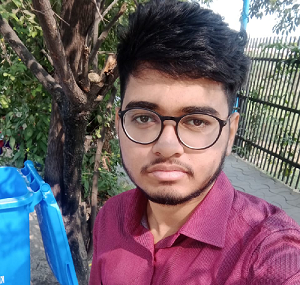
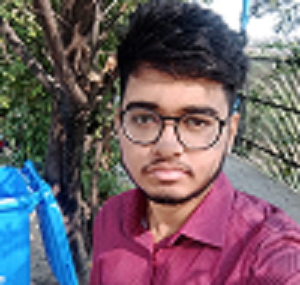
Made some changes

diff --git a/index.html b/index.html
@@ -112,7 +112,7 @@
             <section class="about section" id="about">
                 <h2 class="section__title">About me</h2>
                 <div class="about__container container grid">
-                    <img src="assets/img/Aritra 2.png" alt="" class="about__img">
+                    <img src="assets/img/Saly-13.png" alt="" class="about__img">
 
                     <div class="about__data">
                         <p class="about__description">I'm a 3rd Year student currently pursuing B.Tech in Computer Science and Engineering from JIS College of Engineering.
@@ -326,7 +326,7 @@
 
                         </div>
 
-                        <!----- Others ------>
+                        <!-- --- Others ----
                         <div class="skills__content skills__close">
                             <div class="skills__header">
                                 <i class="uil uil-swatchbook skills__icon"></i>
@@ -371,7 +371,7 @@
                                     </div>    
                             </div>
 
-                        </div>
+                        </div> -->
                     </div>
                 </div>
             </section>
@@ -467,98 +467,7 @@
                 </div>
             </section>
 
-            <!-- Portfolio -->
-            <section class="portfolio section" id="projects">
-                <h2 class="section__title">Projects</h2>
-        
-                <div class="portfolio__container container swiper-container">
-                    <div class="swiper-wrapper">
-        
-                        <!-- Project 4 -->
-                        <div class="portfolio__content grid swiper-slide">
-                        <img src="./assets/img/Data-Structure-Algorithm.png" alt="" class="portfolio__img">
             
-                        <div class="portfolio__data">
-                            <h3 class="portfolio__title">Data Structure & Algorithm </h3>
-                            <p class="portfolio__description">
-                                An Open-Source repository 🌎 that contains all the DSA concepts and their implementation, questions and Interview questions..
-                            </p>
-                            <a href="https://github.com/aritra-tech/Data-Structure-Algorithm" class="button button-flex button-small portfolio__button">
-                            Check out
-                            <i class="uil uil-arrow-right button__icon"></i>
-                            </a>
-                        </div>
-                        </div>
-            
-                        <!-- Project 3 -->
-                        <div class="portfolio__content grid swiper-slide">
-                        <img
-                            src="assets/img/bnner_keepit.png" alt="" class="portfolio__img">
-            
-                        <div class="portfolio__data">
-                            <h3 class="portfolio__title">
-                            KeepIt
-                            </h3>
-                            <p class="portfolio__description">
-                                KeepIt is a note taking Android application 📱 built using Kotlin and also to demonstrate use of Modern Android development tools..
-                            </p>
-                            <a href="https://github.com/aritra-tech/KeepIt" class="button button-flex button-small portfolio__button">
-                            Check out
-                            <i class="uil uil-arrow-right button__icon"></i>
-                            </a>
-                        </div>
-                        </div>
-            
-                        <!-- Project 2 -->
-                        <div class="portfolio__content grid swiper-slide">
-                        <img
-                            src="assets/img/banner.png" alt="" class="portfolio__img">
-            
-                        <div class="portfolio__data">
-                            <h3 class="portfolio__title">
-                            Medify
-                            </h3>
-                            <p class="portfolio__description">
-                                Medify is a medical android app which deals and solves issues of both patients and doctors.
-                            </p>
-                            <a href="https://github.com/aritra-tech/Medify" class="button button-flex button-small portfolio__button">
-                            Check out
-                            <i class="uil uil-arrow-right button__icon"></i>
-                            </a>
-                        </div>
-                        </div>
-            
-                        <!-- Project 1 -->
-                        <div class="portfolio__content grid swiper-slide">
-                        <img
-                            src="assets/img/Care4U.png" alt="" class="portfolio__img">
-            
-                        <div class="portfolio__data">
-                            <h3 class="portfolio__title">
-                            CaringYou
-                            </h3>
-                            <p class="portfolio__description">
-                                CaringYou is a firebase based app. It makes sure to fulfill most of daily needs of an user. It is an amalgamation of features that an user needs and wish to have in this current COVID situation.
-                            </p>
-                            <a href="https://github.com/aritra-tech/Care4U" class="button button-flex button-small portfolio__button">
-                            Check out
-                            <i class="uil uil-arrow-right button__icon"></i>
-                            </a>
-                        </div>
-                        </div>
-                    </div>
-        
-                <!-- Arrows -->
-                <div class="swiper-button-next">
-                    <i class="uil uil-angle-right-b swiper-portfolio-icon"></i>
-                </div>
-                <div class="swiper-button-prev">
-                    <i class="uil uil-angle-left-b swiper-portfolio-icon"></i>
-                </div>
-                <!-- Pagination -->
-                <div class="swiper-pagination"></div>
-                </div>
-            </section>
 
             <!-- Footer -->
             <footer class="footer">

diff --git a/assets/css/styles.css b/assets/css/styles.css
@@ -256,7 +256,7 @@ img{
 
 /*==== About ====*/
 .about__img{
-    width: 200px;
+    width: 100px;
     
     border-radius: .5rem;
     justify-self: center;
@@ -508,29 +508,29 @@ img{
     outline: none;
 }
 /* FOOTER  */
-.footer {
+.footer{
     padding-top: 2rem;
 }
   
-  .footer_container {
+.footer_container{
     row-gap: 3.5rem;
 }
   
-.footer_bg {
+.footer_bg{
     background-color: var(--first-color-second);
     padding: 2rem 0 3rem;
 }
   
-.footer_title {
+.footer_title{
     font-size: var(--h1-font-size);
     margin-bottom: var(--mb-0-25);
 }
   
-.footer_subtitle {
+.footer_subtitle{
     font-size: var(--small-font-size);
 }
   
-.footer_links {
+.footer_links{
     display: flex;
     flex-direction: column;
     row-gap: 1.5rem;
@@ -547,16 +547,16 @@ img{
     color: var(--first-color-lighter);
 }
   
-.footer_social {
+.footer_social{
     font-size: 1.25rem;
     margin-right: var(--mb-1-5);
 }
   
-.footer_social:hover {
+.footer_social:hover{
     color: var(--first-color-lighter);
 }
   
-.footer_copy {
+.footer_copy{
     font-size: var(--smaller-font-size);
     text-align: center;
     color: var(--text-color-light);
@@ -576,23 +576,23 @@ img{
       margin-right: var(--mb-1);
     }
   
-    .nav__menu {
+    .nav__menu{
       padding: 2rem 0.25rem 4rem;
     }
   
-    .nav__list {
+    .nav__list{
       column-gap: 0;
     }
   
-    .home__content {
+    .home__content{
       grid-template-columns: 0.25fr 3fr;
     }
   
-    .home__blob {
+    .home__blob{
       width: 180px;
     }
   
-    .skills__title {
+    .skills__title{
       font-size: var(--normal-font-size);
     }
   
@@ -618,6 +618,7 @@ img{
   
     .about__container,
     .skills__container,
+    .portfolio__content
     .footer__container{
       grid-template-columns: repeat(2, 1fr);
     }
@@ -698,6 +699,12 @@ img{
     .qualification_sections{
         grid-template-columns: .5fr;
     }
+    .portfolio__img{
+        width: 320px;
+    }
+    .portfolio__content{
+        align-items: center;
+    }
     .footer__container{
         grid-template-columns: repeat(3,1fr);
     }
@@ -721,5 +728,20 @@ img{
     }
     .home__social{
         transform: translateX(-6rem);
+    }
+    .portfolio__content{
+        column-gap: 5rem;
+    }
+    .swiper-portfolio-icon{
+        font-size: 3.5rem;
+    }
+    .swiper-button-prev{
+        left: -3.5rem;
+    }
+    .swiper-button-next{
+        right: -3.5rem;
+    }
+    .swiper-container-horizontal > .swiper-pagination-bullets{
+        bottom: -4.5rem;
     }
 }

diff --git a/assets/js/main.js b/assets/js/main.js
@@ -83,11 +83,13 @@ let swiper = new Swiper('.portfolio__container', {
     cssMode: true,
     loop: true,
     navigation: {
-        nextEl: '.swiper-button-next',
-        prevEl: '.swiper-button-prev',
+        nextEl: ".swiper-button-next",
+        prevEl: ".swiper-button-prev",
     },
     pagination: {
-        el: '.swiper-pagination',
+        el: ".swiper-pagination",
         clickable: true,
     },
+    mousewheel: true,
+    keyboard: true,
 });
